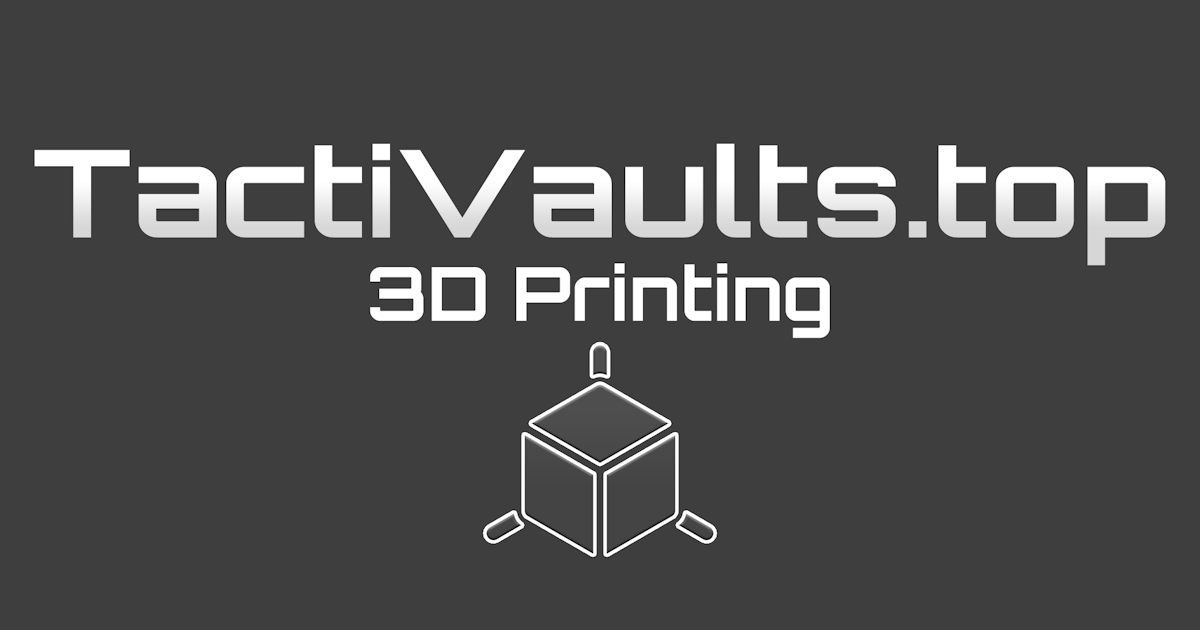
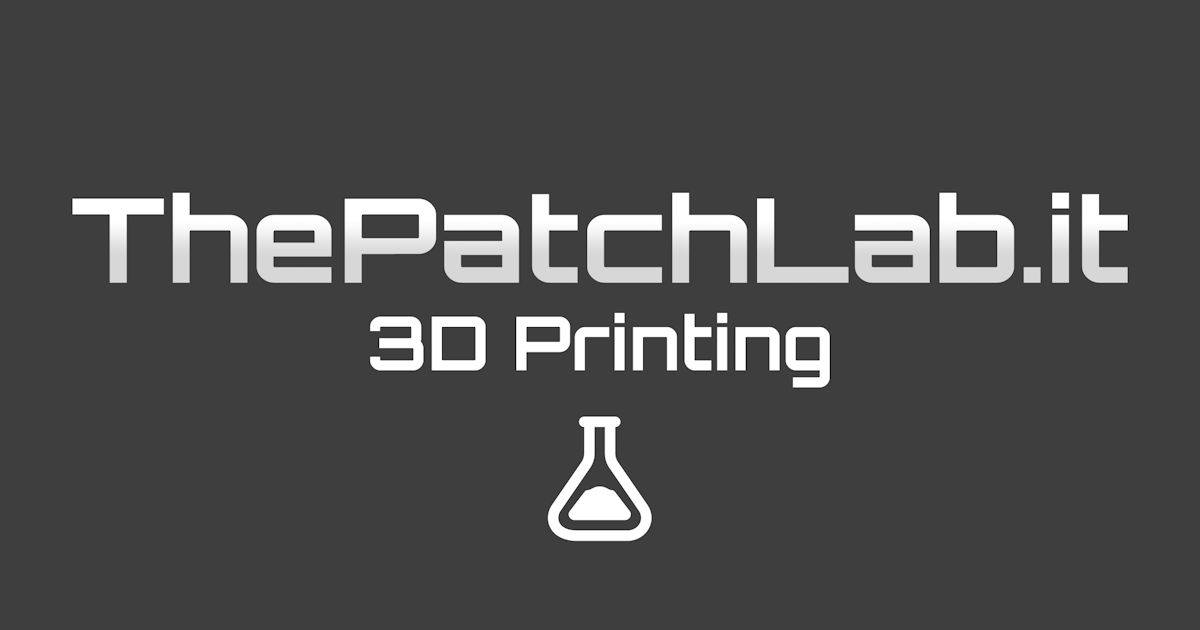
f2

Changed region(s): [[0.0308, 0.2111, 0.9867, 0.9048]]

diff --git a/index.html b/index.html
@@ -22,8 +22,8 @@
   <!-- Open Graph Meta Tags -->
 <meta property="og:title" content="ThePatchLab - Creazioni 3D per Softair">
 <meta property="og:description" content="Scopri le nostre creazioni personalizzate per Softair: patch, dummy, espositori e tanto altro!">
-<meta property="og:image" content="https://www.tactivaults.top/images/banner.png">
-<meta property="og:url" content="https://www.tactivaults.top">
+<meta property="og:image" content="https://www.thepatchlab.it/images/banner.png">
+<meta property="og:url" content="https://www.thepatchlab.it">
 <meta property="og:type" content="website">
 
 
